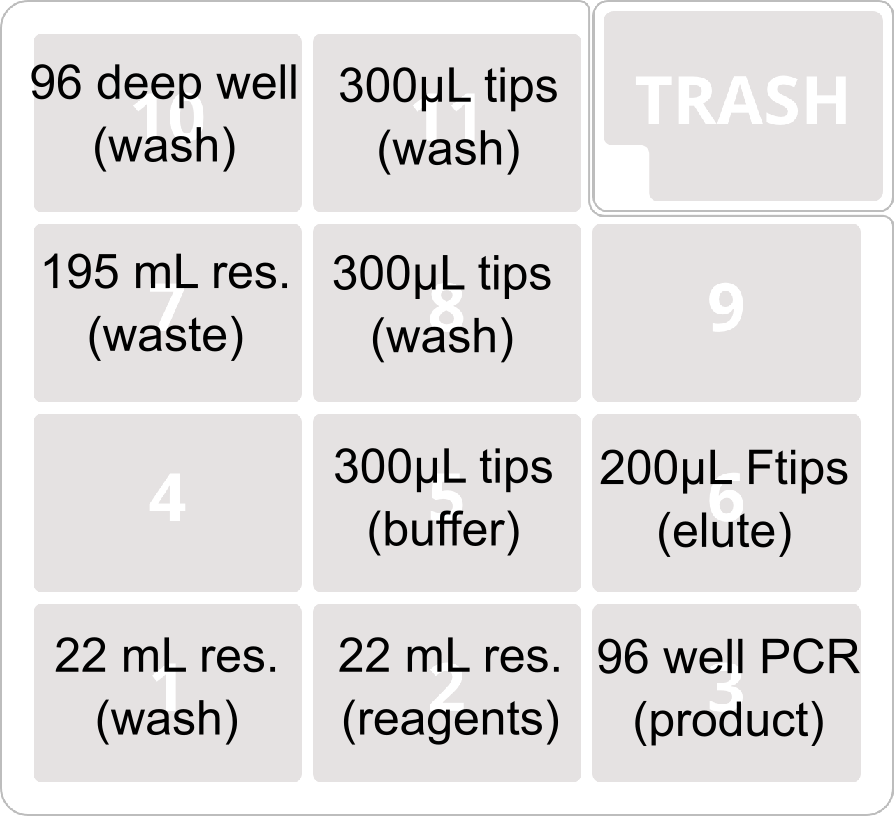
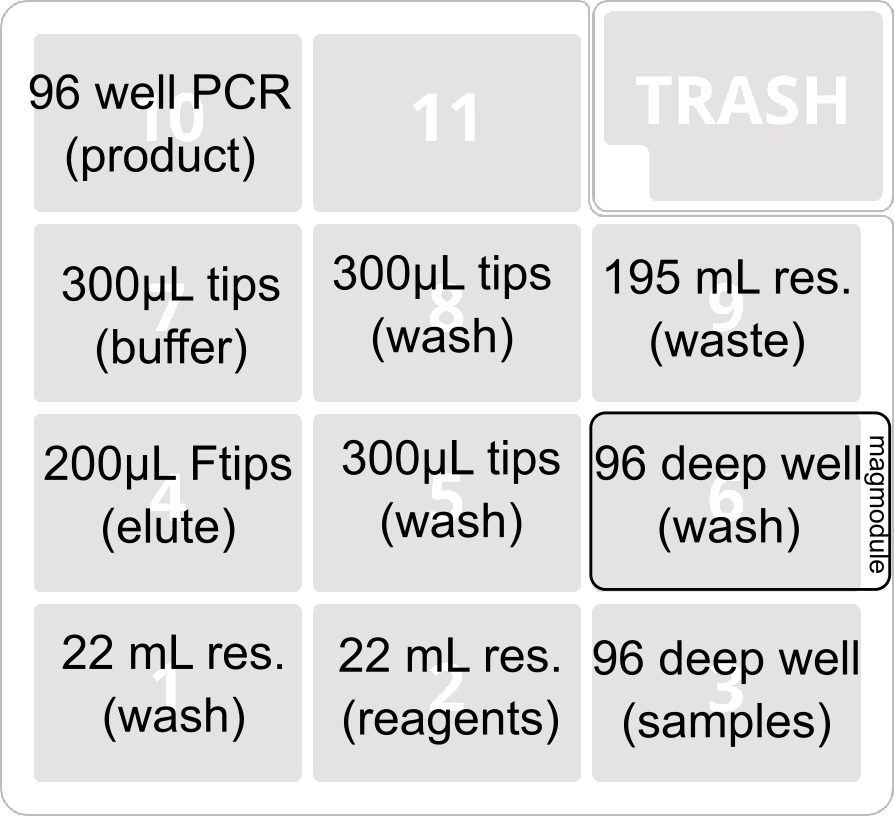
updated to new deck layout and sample transfers)

diff --git a/Extraction/mag_bead_extraction/mag_bead_extraction-part_B.py b/Extraction/mag_bead_extraction/mag_bead_extraction-part_B.py
@@ -13,7 +13,7 @@ metadata = {'apiLevel': '2.8',
 
 # Set to `True` to perform a short run, with brief pauses and only
 # one column of samples
-test_run = False
+test_run = True
 
 if test_run:
     pause_bind = 5*60
@@ -36,7 +36,7 @@ else:
 
 # Lysate transfer volume
 
-lysate_vol = 950
+lysate_vol = 425
 
 wash_vol = 800
 
@@ -46,6 +46,8 @@ elute_vol = 100
 
 eth_well_vol = 20000
 
+hyb_well_vol = 20000
+
 # define magnet engagement height for plates
 # (none if using labware with built-in specs)
 mag_engage_height = 4
@@ -53,10 +55,7 @@ mag_engage_height = 4
 
 # REAGENTS plate:
 # Bead columns
-bead_cols = ['A1']
-
-# Hyb Buffer cols
-hyb_cols = ['A2', 'A3', 'A4']
+bead_cols = ['A1','A2', 'A3', 'A4']
 
 # Elute col
 elute_col = 'A8'
@@ -89,16 +88,16 @@ def run(protocol: protocol_api.ProtocolContext):
     # define deck positions and labware
 
     # define hardware modules
-    magblock = protocol.load_module('magnetic module gen2', 10)
+    magblock = protocol.load_module('magnetic module gen2', 6)
     magblock.disengage()
 
     # tips
     tiprack_buffers = protocol.load_labware('opentrons_96_tiprack_300ul',
-                                            5)
+                                            7)
     tiprack_elution = protocol.load_labware(
-                            'opentrons_96_filtertiprack_200ul', 6)
+                            'opentrons_96_filtertiprack_200ul', 4)
     tiprack_wash1 = protocol.load_labware('opentrons_96_tiprack_300ul',
-                                          11)
+                                          5)
     tiprack_wash2 = protocol.load_labware('opentrons_96_tiprack_300ul',
                                           8)
     # tiprack_wash3 = protocol.load_labware('opentrons_96_tiprack_300ul',
@@ -110,12 +109,14 @@ def run(protocol: protocol_api.ProtocolContext):
     wash_buffers = protocol.load_labware('usascientific_12_reservoir_22ml',
                                          1, 'wash buffers')
     eluate = protocol.load_labware('biorad_96_wellplate_200ul_pcr',
-                                   3, 'eluate')
+                                   10, 'eluate')
     waste = protocol.load_labware('nest_1_reservoir_195ml',
-                                  7, 'liquid waste')
+                                  9, 'liquid waste')
     reagents = protocol.load_labware('usascientific_12_reservoir_22ml',
                                      2, 'reagents')
 
+    samples = protocol.load_labware('vwr_96_wellplate_1000ul',
+                                     3, 'samples')
     # load plate on magdeck
     # mag_plate = magblock.load_labware('vwr_96_wellplate_1000ul')
     mag_plate = magblock.load_labware('vwr_96_wellplate_1000ul')
@@ -127,9 +128,6 @@ def run(protocol: protocol_api.ProtocolContext):
 
     # SeraMag bead wells
     bead_wells = [reagents[x] for x in bead_cols]
-
-    # 2.5X hyb buffer wells
-    hyb_wells = [reagents[x] for x in hyb_cols]
 
     # Ethanol columns
     eth_wells = [wash_buffers[x] for x in eth_cols]
@@ -147,32 +145,31 @@ def run(protocol: protocol_api.ProtocolContext):
 
     ### Adding beads
 
+    hyb_vol = 0.66 * lysate_vol
 
     # add beads
-    pipette_left.distribute(100,
-                            bead_wells, 
-                            [mag_plate[x].top() for x in cols],
-                            mix_before=(6, 200),
-                            blow_out=True,
-                            blowout_location='source well',
-                            disposal_volume=10,
-                            air_gap=5
-                            )
-
-    # add binding buffer
-
-    hyb_vol = 0.66 * lysate_vol - 100
-
-    hyb_remaining, hyb_wells = add_buffer(pipette_left,
-                                          hyb_wells,
-                                          mag_plate,
-                                          cols,
-                                          hyb_vol,
-                                          eth_well_vol/8)
+    bead_remaining, bead_wells = add_buffer(pipette_left,
+                                            bead_wells,
+                                            mag_plate,
+                                            cols,
+                                            hyb_vol,
+                                            hyb_well_vol/8,
+                                            pre_mix=5)
 
     # iterate to next full well
-    if hyb_remaining < eth_well_vol:
-        hyb_wells.pop(0)
+    if bead_remaining < hyb_well_vol:
+        bead_wells.pop(0)
+
+    # add samples
+    for col in cols:
+        pipette_left.pick_up_tip(tiprack_wash1.wells_by_name()[col])
+        pipette_left.transfer(lysate_vol,
+                              samples.wells_by_name()[col],
+                              mag_plate.wells_by_name()[col],
+                              rate=1,
+                              air_gap=5,
+                              new_tip='never')
+        pipette_left.return_tip()
 
     # ### Prompt user to place plate on rotator
     protocol.pause('Seal plate and place on rotator. Rotate at low '
@@ -189,7 +186,64 @@ def run(protocol: protocol_api.ProtocolContext):
 
     protocol.delay(seconds=pause_mag)
 
+    # remove supernatant
+    remove_supernatant(pipette_left,
+                       mag_plate,
+                       cols,
+                       tiprack_wash1,
+                       waste['A1'],
+                       super_vol=lysate_vol,
+                       tip_vol=300,
+                       rate=bead_flow,
+                       bottom_offset=1,
+                       drop_tip=False)
+
+
+    # add beads
+    bead_remaining, bead_wells = add_buffer(pipette_left,
+                                            bead_wells,
+                                            mag_plate,
+                                            cols,
+                                            hyb_vol,
+                                            hyb_well_vol/8,
+                                            pre_mix=5)
+
+    # iterate to next full well
+    if bead_remaining < hyb_well_vol:
+        bead_wells.pop(0)
+
+    # add samples
+    for col in cols:
+        pipette_left.pick_up_tip(tiprack_wash1.wells_by_name()[col])
+        pipette_left.transfer(lysate_vol,
+                              samples.wells_by_name()[col],
+                              mag_plate.wells_by_name()[col],
+                              rate=1,
+                              air_gap=5,
+                              new_tip='never')
+        pipette_left.return_tip()
+
+
+
+    # ### Prompt user to place plate on rotator
+    protocol.pause('Seal plate and place on rotator. Rotate at low '
+                   'speed for 10 minutes.')
+
+    protocol.delay(seconds=1)
+
+    protocol.pause('Now spin down plate, unseal, and place back on '
+                   'mag deck.')
+
+    # bind to magnet
+    protocol.comment('Binding beads to magnet.')
+    magblock.engage(height_from_base=mag_engage_height)
+
+    protocol.delay(seconds=pause_mag)
+
+
     pipette_left.default_speed = 400
+
+
 
     # ### Do first wash: Wash 800 µL EtOH
     protocol.comment('Doing wash #3.')
